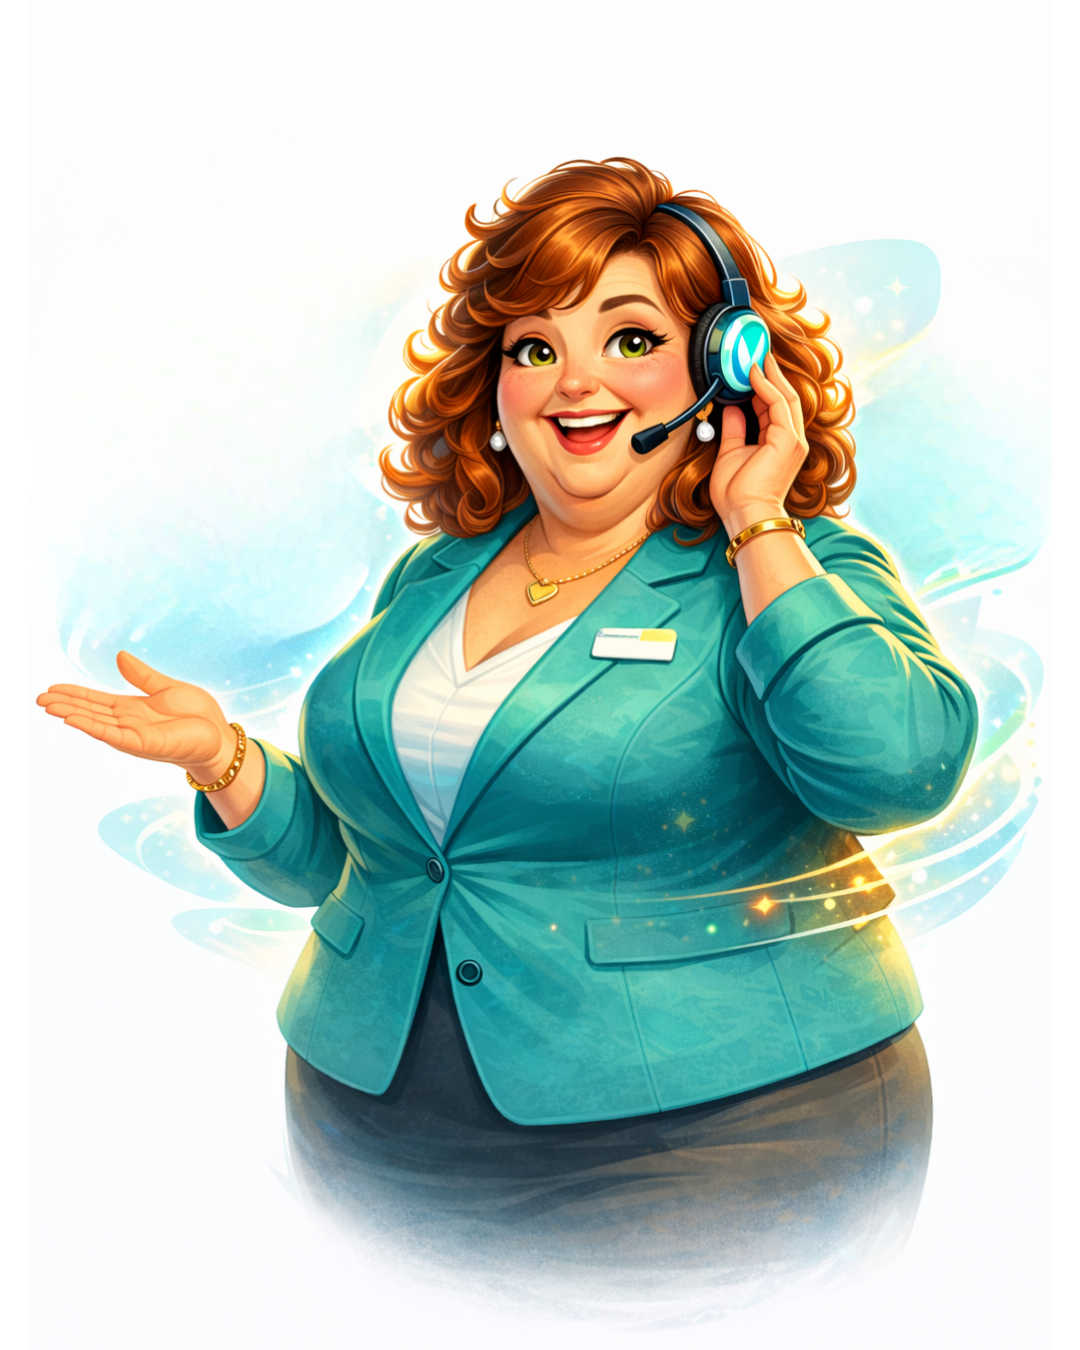
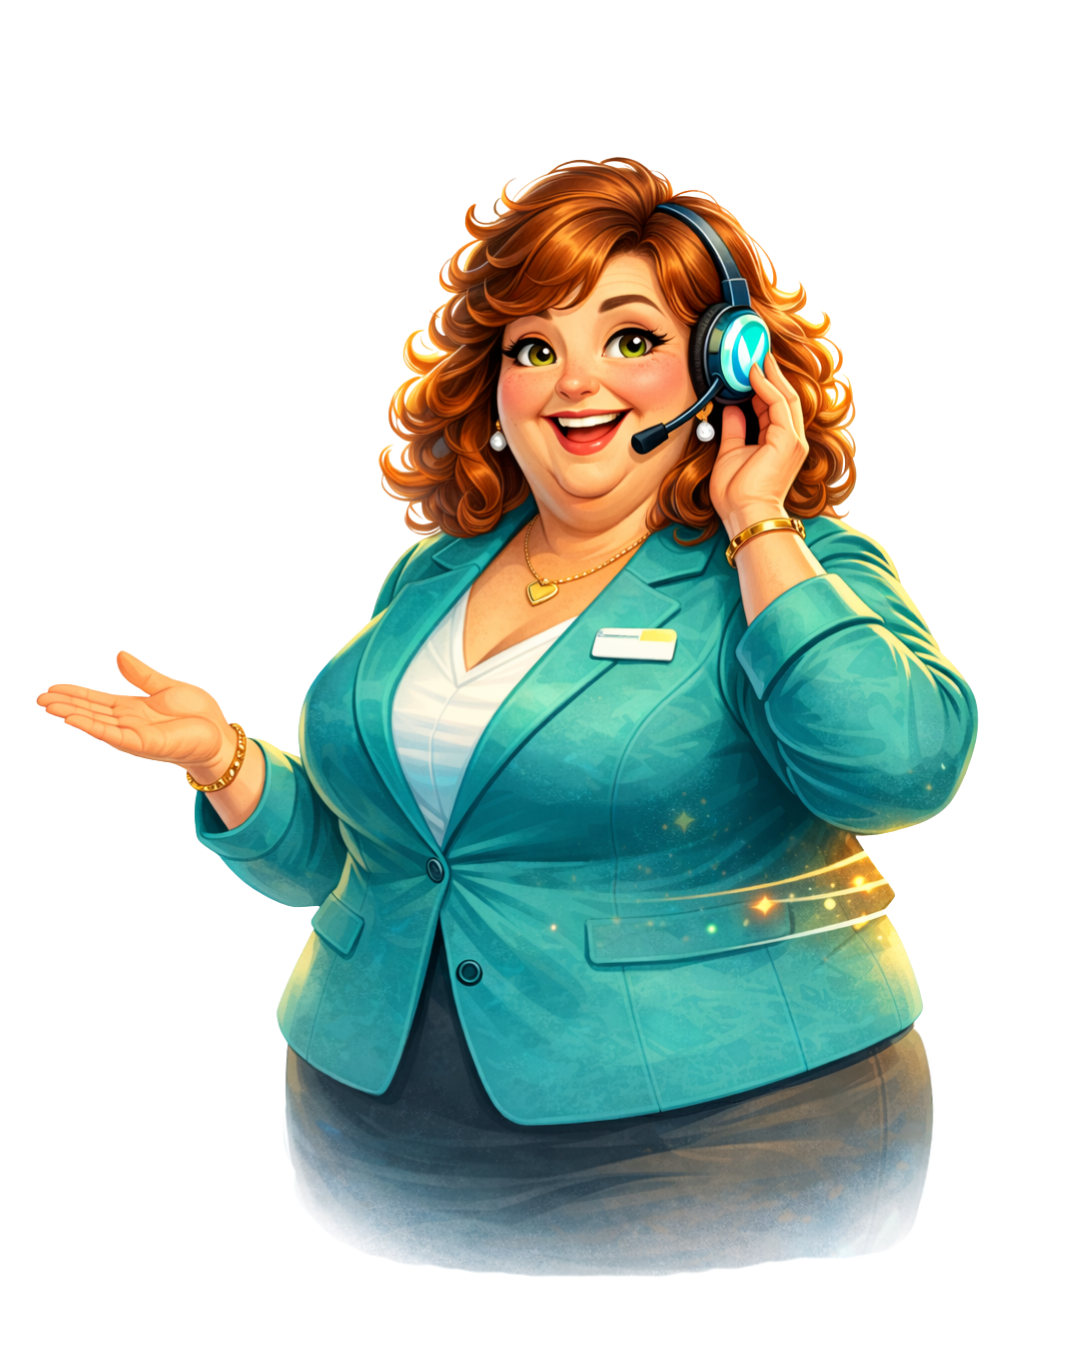
fix: mobile QA — callout order, portrait images, thumb overflow, consistent padding
- What You Get: callouts above doc on mobile (order 1,2 then doc 3)
- Voice showcase: use portrait images for main + thumbs, object-fit contain
- Thumbs: more gap, padding for active scale, overflow-x scroll on mobile
- Consistent 20px container padding across all breakpoints
- Remove narrow max-width constraints on mobile grids

diff --git a/assets/css/site.css b/assets/css/site.css
@@ -80,7 +80,7 @@ button { cursor: pointer; border: none; font-family: inherit; }
   width: 100%;
   max-width: 1140px;
   margin: 0 auto;
-  padding: 0 24px;
+  padding: 0 20px;
 }
 
 .container--narrow {
@@ -873,8 +873,6 @@ body.sitestaffr-landing-page .hero__visual > * {
 @media (max-width: 768px) {
   .feat-cards-row {
     grid-template-columns: 1fr;
-    max-width: 420px;
-    margin: 0 auto;
   }
   .feat-cta__buttons {
     flex-direction: column;
@@ -1174,13 +1172,9 @@ body.sitestaffr-landing-page .hero__visual > * {
 @media (max-width: 600px) {
   .price-grid {
     grid-template-columns: 1fr;
-    max-width: 380px;
-    margin: 0 auto;
   }
   .price-includes__grid {
     grid-template-columns: 1fr;
-    max-width: 380px;
-    margin: 0 auto;
   }
   .price-addon-card {
     padding: 28px 24px;
@@ -1736,13 +1730,13 @@ body.sitestaffr-landing-page .hero__visual > * {
     order: 1;
     text-align: center;
   }
-  .what-you-get__doc-wrapper {
-    order: 2;
-    perspective: none;
-  }
   .what-you-get__callouts--right {
-    order: 3;
+    order: 2;
     text-align: center;
+  }
+  .what-you-get__doc-wrapper {
+    order: 3;
+    perspective: none;
   }
   .what-you-get__callouts--left .what-you-get__callout,
   .what-you-get__callouts--right .what-you-get__callout {
@@ -2279,6 +2273,7 @@ body.sitestaffr-landing-page .hero__visual > * {
   min-width: 0;
   position: relative;
   z-index: 1;
+  overflow-x: hidden;
 }
 .voice-showcase__header {
   text-align: center;
@@ -2326,14 +2321,13 @@ body.sitestaffr-landing-page .hero__visual > * {
   height: 330px;
   border-radius: var(--radius-lg);
   overflow: hidden;
-  background: var(--cream);
   flex-shrink: 0;
 }
 .voice-showcase__portrait img {
   width: 100%;
   height: 100%;
-  object-fit: cover;
-  object-position: top center;
+  object-fit: contain;
+  object-position: center;
   transition: opacity 0.3s ease;
 }
 .voice-showcase__arrow {
@@ -2477,9 +2471,8 @@ body.sitestaffr-landing-page .hero__visual > * {
 .voice-showcase__thumbs {
   display: flex;
   justify-content: center;
-  gap: 10px;
-  padding: 8px 0 4px;
-  overflow: visible;
+  gap: 14px;
+  padding: 12px 8px;
 }
 .voice-showcase__thumb {
   display: flex;
@@ -2510,8 +2503,8 @@ body.sitestaffr-landing-page .hero__visual > * {
 .voice-showcase__thumb-img img {
   width: 100%;
   height: 100%;
-  object-fit: cover;
-  object-position: top center;
+  object-fit: contain;
+  object-position: center;
 }
 .voice-showcase__thumb-name {
   font-size: 0.65rem;
@@ -2639,8 +2632,12 @@ body.sitestaffr-landing-page .hero__visual > * {
     height: 270px;
   }
   .voice-showcase__thumbs {
-    gap: 2px;
-    padding: 4px 2px;
+    gap: 10px;
+    padding: 12px 8px;
+    overflow-x: auto;
+    overflow-y: visible;
+    -webkit-overflow-scrolling: touch;
+    justify-content: flex-start;
   }
   .voice-showcase__thumb-img {
     width: 38px;
@@ -4470,7 +4467,7 @@ body.sitestaffr-landing-page .hero__visual > * {
 }
 
 @media (max-width: 480px) {
-  .container { padding: 0 16px; }
+  .container { padding: 0 20px; }
   .nav__logo-image {
     height: 36px;
     max-width: 152px;
@@ -5085,7 +5082,7 @@ body.sitestaffr-landing-page .hero__actions {
 /* ---------- Mobile ---------- */
 @media (max-width: 768px) {
   .voice-text-section__panel {
-    margin: 0 -8px;
+    margin: 0;
     border-radius: var(--radius-lg);
   }
   .voice-text-section__selector {
@@ -5472,7 +5469,6 @@ body.sitestaffr-landing-page .hero__actions {
 @media (max-width: 480px) {
   .pricing-teaser__grid {
     grid-template-columns: 1fr;
-    max-width: 280px;
   }
 }
 

diff --git a/assets/js/site.js b/assets/js/site.js
@@ -558,7 +558,7 @@ if (voiceShowcase) {
     activeVoiceIndex = index;
     const voice = voices[index];
 
-    showcasePortrait.src = themeUrl + '/assets/images/agents/' + voice.file + '_half-size.png' + imgVersion;
+    showcasePortrait.src = themeUrl + '/assets/images/agents/portraits/' + voice.file.toLowerCase() + '.png' + imgVersion;
     showcasePortrait.alt = voice.name;
     showcaseName.textContent = voice.name;
     showcasePlan.textContent = voice.plan;
@@ -599,7 +599,7 @@ if (voiceShowcase) {
 
     thumb.innerHTML =
       '<div class="voice-showcase__thumb-img">' +
-        '<img src="' + themeUrl + '/assets/images/agents/' + voice.file + '_half-size.png' + imgVersion + '" alt="' + voice.name + '" loading="lazy">' +
+        '<img src="' + themeUrl + '/assets/images/agents/portraits/' + voice.file.toLowerCase() + '.png' + imgVersion + '" alt="' + voice.name + '" loading="lazy">' +
       '</div>' +
       '<span class="voice-showcase__thumb-name">' + voice.name + '</span>' +
       '<span class="voice-showcase__thumb-plan" data-plan="' + voice.plan + '">' + voice.plan + '</span>';
